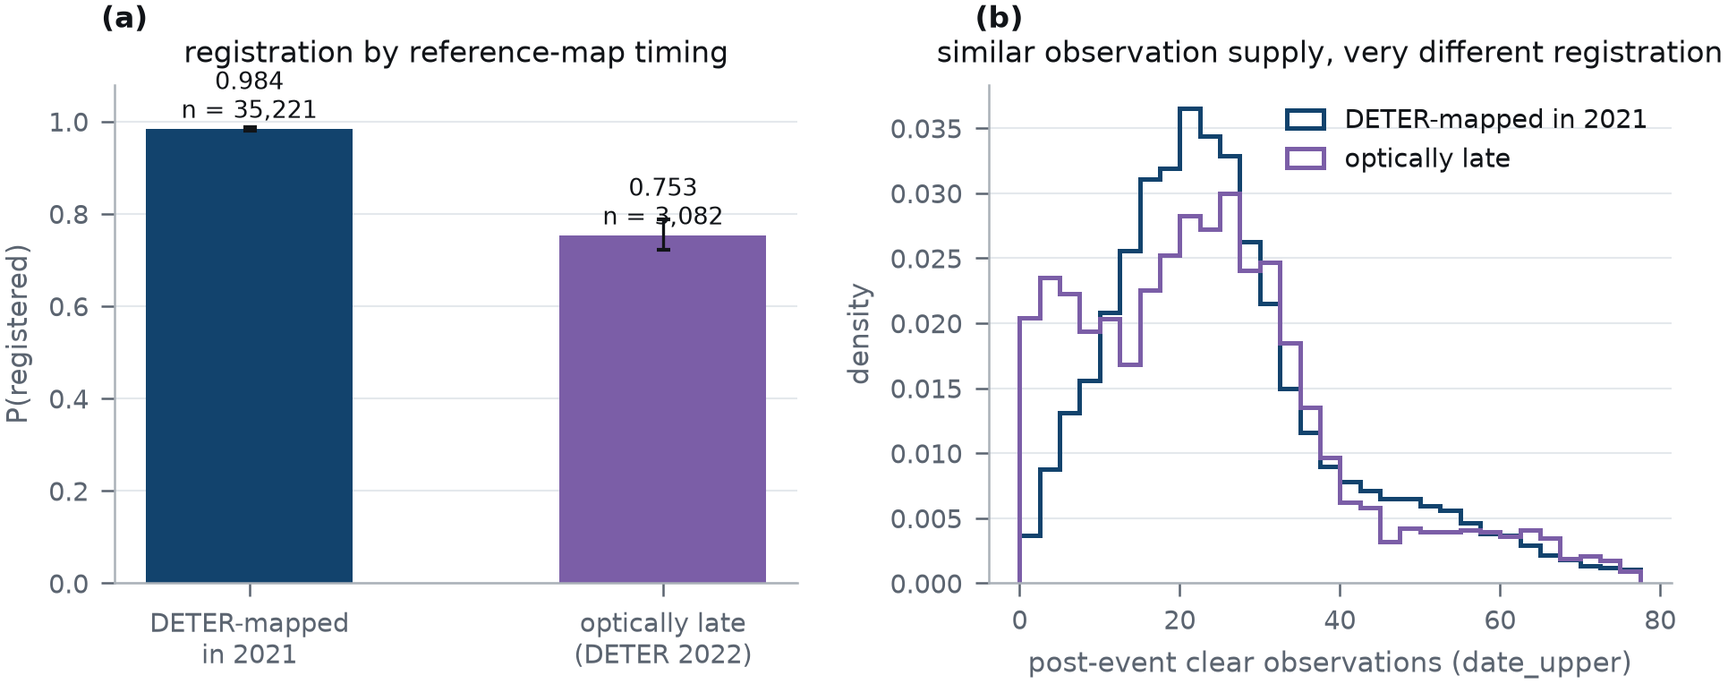
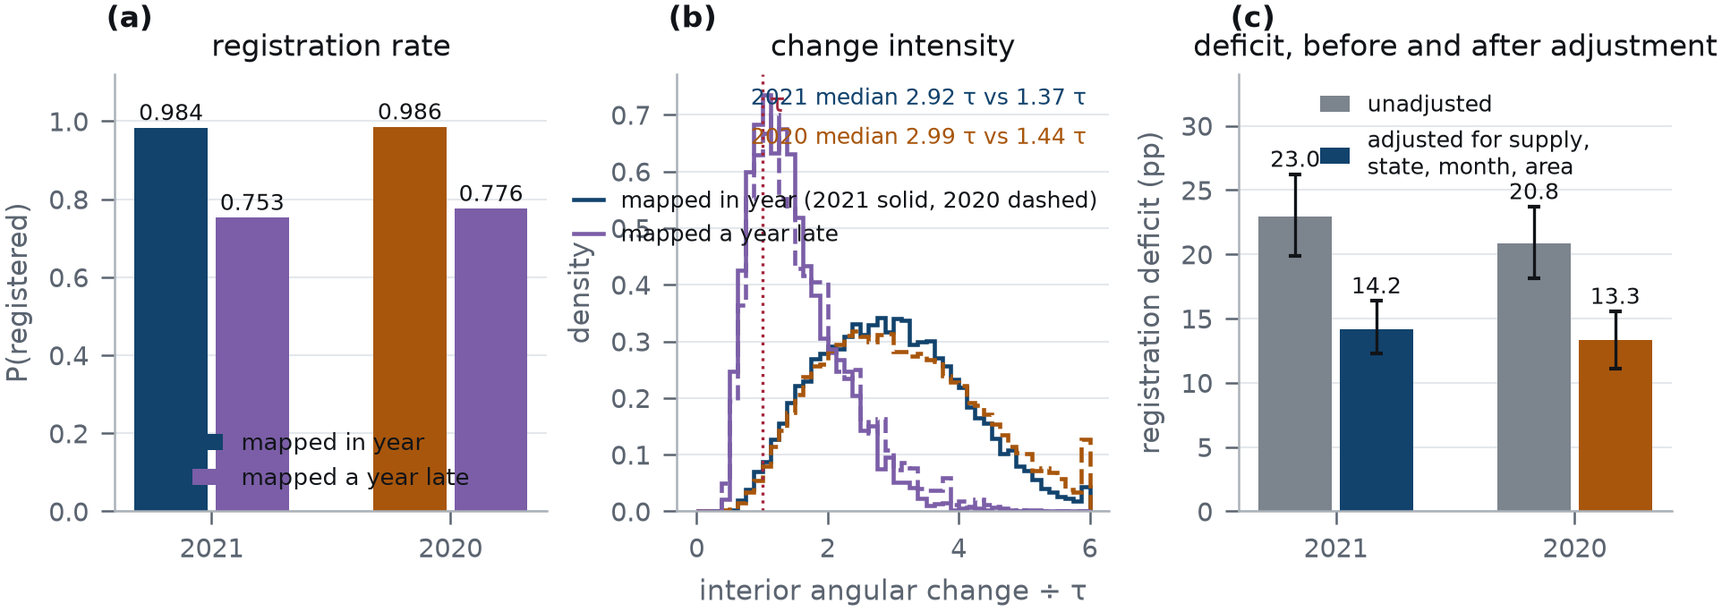
TB01-P7 item 6: section 4.4 rewritten as a measured intensity effect
The change-intensity comparison is integrated into section 4.4 and Fig. 5, replacing the
open question with numbers.

(a) Definition check: an optically late event's DETER date lies in the following year, so
the date_upper minimum never binds and its clear_post is identical under both dating rules
for 100 % of such events. No drift; the section now says so, and notes their dates rest on
the least-corrected source available, which makes the conclusion conservative.

(b) Comparison. Area is not the difference (14.2 vs 13.0 ha) and alert confidence is not
either (high-confidence by construction vs 99.4 %). Intensity is: median interior change
1.37 tau against 2.92 tau in 2021 and 1.44 against 2.99 in 2020, the whole distribution
displaced rather than tailed. Adjusting the registration deficit for observation supply,
radar density, state, month and area removes under two fifths of it - 23.0 pp [19.9, 26.2]
falls to 14.2 [12.3, 16.4] in 2021, 20.8 [18.1, 23.7] to 13.3 [11.1, 15.6] in 2020 - while
the adjusted intensity ratio is 0.56 [0.54, 0.58] and 0.60 [0.57, 0.62]. Fig. 5 gains an
intensity-distribution panel and a deficit-decomposition panel.

Section 5.6 is updated to hold both mechanisms at once: the difficulty account is real for
the optically late population and does not explain the main gap, which grows with polygon
size, survives excluding those events, and resolves itself a year later.
[…]

diff --git a/aef_explore/paper/code/fig_results.py b/aef_explore/paper/code/fig_results.py
@@ -144,41 +144,86 @@ def f3():
     save(fig, "F4_deferral.png")
 
 
-# ------------------------------------------------------------------ F4
+# ------------------------------------------------------------------ F4 -> Fig. 5
 def f4():
-    d = pd.read_csv(P2)
-    d = d[d["clear_post_date_upper"].notna()]
-    fig, axes = plt.subplots(1, 2, figsize=(W2, W2 * 0.34))
-    fig.subplots_adjust(wspace=0.28, top=0.84)
+    """Optically late events: registration, change intensity, and the deficit decomposition."""
+    st = json.load(open("aef_explore/paper/intensity_stats.json"))
+    frames = {}
+    for year, path, angcol, extra in (("2021", P2, "ang_mean_deg", None),
+                                      ("2020", P2B, "ang_2019_2020_deg",
+                                       pd.read_csv(S1_2020))):
+        d, cp, s1 = M.prepare(path, "date_upper", extra)
+        d = d.copy()
+        d["r"] = d[angcol] / d["tau_p90"]
+        frames[year] = d
+    fig, axes = plt.subplots(1, 3, figsize=(W2, W2 * 0.34))
+    fig.subplots_adjust(wspace=0.30, top=0.84, bottom=0.20)
+
     ax = axes[0]
-    grp = d.groupby("radd_only")["registered"]
-    for i, (k, lab) in enumerate(((0, "DETER-mapped in 2021"), (1, "optically late\n(DETER 2022)"))):
-        s = d[d["radd_only"] == k]
-        r = M.boot_ci(NPROC, s, "share", "clear_post_date_upper", "clear_post_date_upper",
-                      "registered", nboot=400)
-        ax.bar(i, r["point"], 0.5, color=C["2021"] if k == 0 else C["alt"])
-        ax.errorbar(i, r["point"], yerr=[[r["point"] - r["lo"]], [r["hi"] - r["point"]]],
-                    color=INK, lw=0.8, capsize=1.8)
-        ax.annotate(f"{r['point']:.3f}\nn = {len(s):,}", (i, r["point"]),
-                    textcoords="offset points", xytext=(0, 3), ha="center", fontsize=6.4,
-                    color=INK)
-    ax.set_xticks([0, 1]); ax.set_xticklabels(["DETER-mapped\nin 2021", "optically late\n(DETER 2022)"])
-    ax.set_ylim(0, 1.08); ax.set_ylabel("P(registered)")
-    ax.set_title("registration by reference-map timing", color=INK, pad=6)
+    w = 0.34
+    for k, year in enumerate(("2021", "2020")):
+        v = st[year]
+        for j, (key, col, lab) in enumerate(((("reg_mapped"), C[year], "mapped in year"),
+                                             (("reg_late"), C["alt"], "mapped a year late"))):
+            ax.bar(k + (j - 0.5) * w, v[key], w * 0.9, color=col,
+                   label=lab if k == 0 else None)
+            ax.annotate(f"{v[key]:.3f}", (k + (j - 0.5) * w, v[key]),
+                        textcoords="offset points", xytext=(0, 2), ha="center",
+                        fontsize=6, color=INK)
+    ax.set_xticks([0, 1]); ax.set_xticklabels(["2021", "2020"])
+    ax.set_ylim(0, 1.12); ax.set_ylabel("P(registered)")
+    ax.set_title("registration rate", color=INK, pad=5)
+    ax.legend(frameon=False, loc="lower center", ncol=1, handlelength=1.3, fontsize=6.2)
     tidy(ax)
+
     ax = axes[1]
-    bins = np.arange(0, 80, 2.5)
-    for k, lab, col in ((0, "DETER-mapped in 2021", C["2021"]),
-                        (1, "optically late", C["alt"])):
-        ax.hist(d.loc[d["radd_only"] == k, "clear_post_date_upper"].clip(0, 79), bins=bins,
-                density=True, histtype="step", lw=1.2, color=col, label=lab)
-    ax.set_xlabel("post-event clear observations (date_upper)")
+    bins = np.linspace(0, 6, 49)
+    for year, ls in (("2021", "-"), ("2020", "--")):
+        d = frames[year]
+        for late, col in ((0, C[year]), (1, C["alt"])):
+            ax.hist(d.loc[d.radd_only == late, "r"].clip(0, 6), bins=bins, density=True,
+                    histtype="step", lw=1.1, ls=ls, color=col)
+    ax.axvline(1.0, color=C["flag"], lw=0.8, ls=":")
+    ax.annotate("τ", (1.0, ax.get_ylim()[1] * 0.96), fontsize=7, color=C["flag"],
+                ha="left", va="top", xytext=(2, 0), textcoords="offset points")
+    for year, y in (("2021", 0.97), ("2020", 0.88)):
+        v = st[year]
+        ax.annotate(f"{year} median {v['intensity_q']['mapped'][1]:.2f} τ vs "
+                    f"{v['intensity_q']['late'][1]:.2f} τ", (5.95, ax.get_ylim()[1] * y),
+                    ha="right", va="top", fontsize=6.0, color=C[year])
+    ax.set_xlabel("interior angular change ÷ τ")
     ax.set_ylabel("density")
-    ax.set_title("similar observation supply, very different registration",
-                 color=INK, pad=6)
-    ax.legend(frameon=False, handlelength=1.4)
+    ax.set_title("change intensity", color=INK, pad=5)
+    ax.plot([], [], color=C["2021"], lw=1.1, label="mapped in year (2021 solid, 2020 dashed)")
+    ax.plot([], [], color=C["alt"], lw=1.1, label="mapped a year late")
+    ax.legend(frameon=False, loc="upper right", fontsize=6.0, handlelength=1.3,
+              bbox_to_anchor=(1.02, 0.78))
     tidy(ax)
-    panel_tag(axes[0], "(a)", dy=1.16); panel_tag(axes[1], "(b)", dy=1.16)
+
+    ax = axes[2]
+    for k, year in enumerate(("2021", "2020")):
+        v = st[year]
+        for j, (key, col, lab) in enumerate(
+                (("deficit_raw_pp", C["grey"], "unadjusted"),
+                 ("deficit_adjusted_pp", C[year], "adjusted for supply,\nstate, month, area"))):
+            b = v[key]
+            ax.bar(k + (j - 0.5) * w, b["point"], w * 0.9, color=col,
+                   label=lab if k == 0 else None)
+            ax.errorbar(k + (j - 0.5) * w, b["point"],
+                        yerr=[[b["point"] - b["lo"]], [b["hi"] - b["point"]]],
+                        color=INK, lw=0.8, capsize=1.6)
+            ax.annotate(f"{b['point']:.1f}", (k + (j - 0.5) * w, b["hi"]),
+                        textcoords="offset points", xytext=(0, 2), ha="center",
+                        fontsize=6, color=INK)
+    ax.set_xticks([0, 1]); ax.set_xticklabels(["2021", "2020"])
+    ax.set_ylabel("registration deficit (pp)")
+    ax.set_ylim(0, 34)
+    ax.set_title("deficit, before and after adjustment", color=INK, pad=5)
+    ax.legend(frameon=False, loc="upper center", fontsize=6.0, handlelength=1.3, ncol=1)
+    tidy(ax)
+
+    for a, t in zip(axes, ("(a)", "(b)", "(c)")):
+        panel_tag(a, t, dy=1.16)
     save(fig, "F5_optically_late.png")
 
 

diff --git a/aef_explore/paper/code/supplementary.py b/aef_explore/paper/code/supplementary.py
@@ -10,6 +10,39 @@ STATE = {"AC": "Acre", "AM": "Amazonas", "AP": "Amapá", "MA": "Maranhão", "MT"
          "PA": "Pará", "RO": "Rondônia", "RR": "Roraima", "TO": "Tocantins"}
 
 
+PUBLISHED = [
+ ("2021 registration gap (pp)", "34.4 [28.3, 40.3]", ("robust_2021_radd_any", "main (tau p90)", "gap", 2)),
+ ("2021 gap, tau p85", "31.7 [25.7, 37.4]", ("robust_2021_radd_any", "tau p85", "gap", 2)),
+ ("2021 gap, tau p95", "42.2 [35.8, 48.3]", ("robust_2021_radd_any", "tau p95", "gap", 2)),
+ ("2021 gap, high-confidence alerts", "35.2 [29.1, 41.3]", ("robust_2021_radd_any", "radd_high only", "gap", 2)),
+ ("2021 gap, date_upper dating", "46.5 [39.5, 53.2]", ("robust_2021_radd_any", "dating: date_upper", "gap", 2)),
+ ("2021 gap, excluding optically late", "27.8 [21.6, 34.1]", ("robust_2021_radd_any", "no radd_only", "gap", 2)),
+ ("2021 gap, area < 5 ha", "18.5 [-2.9, 65.3]", ("robust_2021_radd_any", "size < 5 ha", "gap", 2)),
+ ("2021 gap, area 5-25 ha", "30.2 [24.8, 35.9]", ("robust_2021_radd_any", "size 5-25 ha", "gap", 2)),
+ ("2021 gap, area >= 25 ha", "50.4 [37.2, 62.2]", ("robust_2021_radd_any", "size >= 25 ha", "gap", 2)),
+ ("2021 joint clear_post coefficient", "0.219 [0.046, 0.429]", ("robust_2021_radd_any", "main (tau p90)", "coef_joint", 3)),
+ ("2021 coefficient, tau p85", "[-0.003, 0.420]", ("robust_2021_radd_any", "tau p85", "coef_joint", 3)),
+ ("2021 coefficient, tau p95", "[0.037, 0.348]", ("robust_2021_radd_any", "tau p95", "coef_joint", 3)),
+ ("2021 coefficient, high-confidence alerts", "[0.009, 0.377]", ("robust_2021_radd_any", "radd_high only", "coef_joint", 3)),
+ ("2021 coefficient, date_upper dating", "[-0.072, 0.212]", ("robust_2021_radd_any", "dating: date_upper", "coef_joint", 3)),
+ ("2021 coefficient, excluding optically late", "[0.376, 1.604]", ("robust_2021_radd_any", "no radd_only", "coef_joint", 3)),
+ ("2021 coefficient, area < 5 ha", "[-0.975, 1.551]", ("robust_2021_radd_any", "size < 5 ha", "coef_joint", 3)),
+ ("2021 coefficient, area 5-25 ha", "[0.182, 0.767]", ("robust_2021_radd_any", "size 5-25 ha", "coef_joint", 3)),
+ ("2021 coefficient, area >= 25 ha", "[-0.082, 0.384]", ("robust_2021_radd_any", "size >= 25 ha", "coef_joint", 3)),
+ ("2020 registration gap (pp)", "14.1 [11.6, 16.6]", ("robust_2020_radd_any", "main (tau p90)", "gap", 2)),
+ ("2020 joint clear_post coefficient", "0.387 [0.129, 0.732]", ("robust_2020_radd_any", "main (tau p90)", "coef_joint", 3)),
+]
+
+
+def repro_table():
+    rows = []
+    for label, pub, (key, variant, field, dp) in PUBLISHED:
+        r = next(x for x in N[key] if x["variant"] == variant)[field]
+        rows.append(f"| {label} | {pub} | **{r['point']:.{dp}f} [{r['lo']:.{dp}f}, "
+                    f"{r['hi']:.{dp}f}]** |")
+    return "\n".join(rows)
+
+
 def thresholds():
     a = pd.read_csv(P2)[["state", "tau_p85", "tau_p90", "tau_p95", "event_id"]]
     b = pd.read_csv(P2B)[["state", "tau_p85", "tau_p90", "tau_p95", "event_id"]]
@@ -65,6 +98,10 @@ def main():
     off20 = pd.read_csv("aef_explore/paper/code/offset_2020.csv")
     cg = json.load(open("aef_explore/stage5/TB01/P5b/p4b_stats.json"))
     zb = json.load(open("aef_explore/stage5/TB01/P5b/zero_bin_stats.json"))
+    c21 = next(x for x in N["robust_2021_radd_any"] if x["variant"] == "main (tau p90)")["coef_joint"]
+    c20 = next(x for x in N["robust_2020_radd_any"] if x["variant"] == "main (tau p90)")["coef_joint"]
+    c21lo, c21hi = c21["lo"], c21["hi"]
+    c20, c20lo, c20hi = c20["point"], c20["lo"], c20["hi"]
     doc = f"""# Supplementary material
 
 Every table here is generated by `code/supplementary.py` from the same re-derived numbers the
@@ -196,7 +233,32 @@ and {cg['shift_gt90_share']*100:.1f} % by more than 90; {cg['lost_n']} patches
 ({cg['lost_share']*100:.1f} %) lose their date entirely under the contemporaneous vintage, and
 {cg['lost_share_cp_old_le2']*100:.1f} % of those had been in the low-observation bin.
 
-## Table S10. Deferral-risk link function
+## Table S10. Published intervals beside the re-derived ones
+
+The P2/P2b fitting script was not retained, so the model was rebuilt (`code/p2_model.py`) and
+validated against the coefficients those packages reported. Every point estimate reproduces to
+the precision published. The intervals divide cleanly in two. For the **registration gaps** the
+two procedures agree to within seven per cent of interval width, and the re-derived interval is
+marginally the wider one in nine of ten rows. For the **logistic coefficients** the published
+intervals are wider in all ten rows, by factors of 1.5 to 4.1. Whatever differs between the two
+procedures affects the coefficient bootstrap and not the proportion bootstrap. The manuscript
+prints the re-derived intervals; this table is the audit trail. Rows are under the RADD-only
+dating rule, which is what the packages used.
+
+| quantity | published interval | re-derived interval |
+|---|---|---|
+{repro_table()}
+
+The rows that matter for a verdict are the coefficients. H7(a) passes on both the published
+2021 interval [0.046, 0.429] and the re-derived [{c21lo:.3f}, {c21hi:.3f}]; it passes on the
+published 2020 interval [0.129, 0.732] and on the re-derived [{c20lo:.3f}, {c20hi:.3f}] around a
+point estimate of {c20:.3f}. Same sign, same verdict, different width, and one variant changes
+status: under the published intervals the τ p85 and area ≥ 25 ha coefficients cross zero, under
+the re-derived ones they do not. Without the original code the difference cannot be attributed.
+The manuscript therefore reports H7(a) as directionally robust rather than precisely estimated,
+which is the reading both sets of intervals support.
+
+## Table S11. Deferral-risk link function
 
 Logit P(registered) = β₀ + β₁·ln(1 + `clear_post`), fitted on dated 2021 events with
 `clear_post` > 0, and its calibration against the empirical curve. The raw-count link used in an

diff --git a/aef_explore/paper/code/numbers_trace.py b/aef_explore/paper/code/numbers_trace.py
@@ -160,6 +160,17 @@ def main():
           "(2021), and 0.620 on 389 with 0.500 on 50 gives 0.606 on 439 (2020). Bins are now "
           "written in interval notation in the text, the figure and Table S2. | ambiguous "
           "wording |",
+          "| P7 item 6 | Section 4.4 is rewritten from an open question to a measured "
+          "intensity effect. New numbers, all from `intensity_stats.json` "
+          "(`code/intensity.py`): the registration deficit adjusted for observation supply, "
+          "radar density, state, month and area is **14.2 pp [12.3, 16.4]** (2021) and "
+          "**13.3 pp [11.1, 15.6]** (2020) against unadjusted 23.0 and 20.8; the adjusted "
+          "intensity ratio of late to contemporaneously mapped events is **0.56 [0.54, 0.58]** "
+          "and **0.60 [0.57, 0.62]**; median interior change 1.37 tau vs 2.92 tau (2021) and "
+          "1.44 vs 2.99 (2020). A definition check confirmed no drift: an optically late "
+          "event's DETER date lies in the following year, so `date_upper` never binds and its "
+          "`clear_post` is identical under both dating rules for 100 % of such events. | "
+          "section 4.4 was unresolved |",
           "| P7 item 4 | The 2020 \u2192 2021 deferral rate was cited from P3 because that "
           "package's per-event table was not retained. It is now re-derived from scratch "
           "(polygons refetched, 2020\u20132021 angular change recomputed against the next "

diff --git a/aef_explore/paper/MANUSCRIPT.md b/aef_explore/paper/MANUSCRIPT.md
@@ -523,22 +523,45 @@ missing event, and that is a materially different problem for users. A change ma
 differencing consecutive annual embeddings will find nearly all clearings; it will place a
 minority of them in the wrong year, with the minority concentrated in the last quarter.
 
-### 4.4 The reference map is selective too
+### 4.4 The reference map is selective, and what it selects are weaker changes
 
 Clearings that DETER mapped only in the following year, but that RADD confirms within the
 target year, register at 0.753 in 2021 and 0.776 in 2020, against 0.984 and 0.986 for events
 DETER mapped contemporaneously (Fig. 5a). This is a population invisible to any study anchored
 solely on an annual reference map, and it is large: 3,082 and 2,591 events.
 
-Under the primary dating rule these events are only mildly observation-poor. Their median
-post-event clear count is 23.0 against 23.7 for contemporaneously mapped events, though they
-are five times more likely to fall in the low-observation bin (3.8 % against 0.7 %; Fig. 5b).
-Observation scarcity therefore explains only a small part of a 23-point registration
-difference. What distinguishes them is more likely to be the property that made the analyst
-late in the first place: a clearing that was incomplete, partially vegetated or ambiguous
-during the target year is both harder for an analyst to delineate and less likely to move an
-annual vector past a threshold calibrated on undisturbed forest. We report this as an open
-question rather than a settled mechanism, and note that it cuts in a conservative direction:
+The obvious explanation is that these are events the satellites did not see, but that is not
+what the data show. The primary dating rule cannot correct them — an optically late event's
+DETER date lies in the following year, so the minimum with the alert date never binds, and
+their `clear_post` is identical under both dating rules — which means their observation counts
+come entirely from the alert date, the least corrected dating available. Even so they are only
+mildly observation-poor: median post-event clear count 23.0 against 23.7 in 2021, though with a
+heavier low tail (3.8 % against 0.7 % of events in the low-observation bin). In 2020 the tail
+is heavier still, 17.0 against 22.7 at the median. Adjusting the registration deficit for
+observation supply, radar density, state, event month and polygon area removes about two fifths
+of it and no more: 23.0 points [19.9, 26.2] falls to **14.2 points [12.3, 16.4]** in 2021, and
+20.8 [18.1, 23.7] to **13.3 [11.1, 15.6]** in 2020 (Fig. 5c).
+
+What separates them is the intensity of the change itself. Expressed as a multiple of the
+event's own state threshold, the interior angular change of an optically late clearing has a
+median of 1.37 τ in 2021 against 2.92 τ for contemporaneously mapped clearings, and 1.44 τ
+against 2.99 τ in 2020; the whole distribution is displaced, not just its tail, with quartiles
+of 1.01–1.88 τ against 2.13–3.72 τ (Fig. 5b). Within the same adjustment as above, an optically
+late event's change is **0.56 [0.54, 0.58]** of a comparable contemporaneously mapped event's
+in 2021 and **0.60 [0.57, 0.62]** in 2020. Polygon area is not the difference — medians of
+14.2 against 13.0 ha in 2021 — and neither is alert confidence, since every optically late
+event carries a high-confidence alert by construction against 99.4 % of the rest.
+
+So the deficit is an intensity effect rather than an observation effect, and the two are
+distinguishable here because the adjustment controls one while measuring the other. Part of the
+statement is definitional, since registration is by construction the event of intensity
+exceeding τ; the content that is not definitional is that the intensity shift survives
+conditioning on observation supply and composition, and that supply accounts for under two
+fifths of the registration gap. The reading we take from this is that a clearing which is
+incomplete, partially vegetated or spread across a year is both harder for an analyst to
+delineate in the year it begins and genuinely produces less annual embedding change — the
+reference map's lateness and the embedding's silence share a cause rather than one explaining
+the other. This also cuts in a conservative direction for the paper's central estimate:
 excluding these events *lowers* the gap in 2021 from 46.5 to 40.6 points but raises the
 conditional coefficient from 0.083 to 0.252.
 
@@ -734,17 +757,29 @@ discrepancy against a reference product.
 ### 5.6 What an annual embedding field is, and is not, for
 
 One further reading of the results deserves stating, because it is the one a sceptical reader
-should test first. Everything reported here is consistent with a much duller alternative: that
-the low-observation events are simply harder events — smaller, more partial, more ambiguous —
-and that observation count is a proxy for difficulty rather than a cause of non-registration.
-It is the same class of question as asking whether a time-series detector's accuracy depends on
-the disturbance agent and its severity rather than on the site's history [@rodman2021disturbance].
-Three findings weigh against that reading. The gap grows rather than shrinks with polygon size
-(Section 4.1); it survives excluding the optically late events that are the most plausible
-carriers of ambiguity, and the conditional coefficient triples when they are excluded
-(Section 4.4); and the deferral result shows that the same events, with the same polygons and
-the same size, register at 94–97 % one year later, when the observations have arrived
+should test first: that the low-observation events are simply harder events — smaller, more
+partial, more ambiguous — and that observation count is a proxy for difficulty rather than a
+cause of non-registration. It is the same class of question as asking whether a time-series
+detector's accuracy depends on the disturbance agent and its severity rather than on the site's
+history [@rodman2021disturbance].
+
+Section 4.4 shows that this mechanism is real, and shows exactly where it operates. Clearings
+the reference map records a year late produce 0.56–0.60 of the annual embedding change of
+otherwise comparable clearings it records on time, an intensity difference that survives
+conditioning on observation supply, state, month and area. Those events are, in the relevant
+sense, harder — and the embedding's silence and the analyst's lateness share that cause rather
+than one explaining the other.
+
+What that finding does not do is explain the main result, and three things separate the two.
+The gap along the observation axis grows rather than shrinks with polygon size (Section 4.1),
+where a difficulty account predicts the opposite. It survives excluding the optically late
+events entirely — the conditional coefficient triples when they are removed (Section 4.4) —
+so the population in which intensity demonstrably differs is not the population carrying the
+gap. And the deferral result shows the same events, with the same polygons and the same
+intensity, registering at 94–97 % one year later, when the observations have arrived
 (Section 4.3). Difficulty does not resolve itself after twelve months; observation supply does.
+The honest summary is that both mechanisms exist in this data, that they act on different
+subpopulations, and that the design separates them rather than having to choose between them.
 
 The picture that emerges is coherent and, we think, reassuring about the product while
 cautionary about one specific use. An annual embedding field is an excellent detector of
@@ -869,10 +904,12 @@ re-derived, with 0.5° block-bootstrap intervals. Single column.
 
 **Fig. 5.** Clearings that the reference map records late. (a) Registration for events DETER
 mapped in the target year against events it mapped only the following year but that RADD
-confirms within the target year. (b) Distribution of post-event clear observations for the two
-groups under the primary dating rule: the late group is more often in the low-observation tail
-but has a similar median, so observation scarcity explains only part of the difference in (a).
-Double column.
+confirms within the target year. (b) Distribution of interior angular change in units of the
+event's own state threshold τ, for both groups and both years: the late group's distribution is
+displaced toward τ rather than merely tailed, so these are weaker changes. (c) The registration
+deficit before and after adjusting for post-event clear observations, radar density, state,
+event month and polygon area; adjustment removes about two fifths of it. Error bars are 0.5°
+block bootstraps. Double column.
 
 **Fig. 6.** Reference selection decides what is measurable. (a) The share of events falling in
 the low-observation bin, for the two Brazilian years and for the Congo patches under two alert

diff --git a/aef_explore/paper/SUPPLEMENTARY.md b/aef_explore/paper/SUPPLEMENTARY.md
@@ -223,7 +223,51 @@ and 3.8 % by more than 90; 260 patches
 (5.3 %) lose their date entirely under the contemporaneous vintage, and
 58.5 % of those had been in the low-observation bin.
 
-## Table S10. Deferral-risk link function
+## Table S10. Published intervals beside the re-derived ones
+
+The P2/P2b fitting script was not retained, so the model was rebuilt (`code/p2_model.py`) and
+validated against the coefficients those packages reported. Every point estimate reproduces to
+the precision published. The intervals divide cleanly in two. For the **registration gaps** the
+two procedures agree to within seven per cent of interval width, and the re-derived interval is
+marginally the wider one in nine of ten rows. For the **logistic coefficients** the published
+intervals are wider in all ten rows, by factors of 1.5 to 4.1. Whatever differs between the two
+procedures affects the coefficient bootstrap and not the proportion bootstrap. The manuscript
+prints the re-derived intervals; this table is the audit trail. Rows are under the RADD-only
+dating rule, which is what the packages used.
+
+| quantity | published interval | re-derived interval |
+|---|---|---|
+| 2021 registration gap (pp) | 34.4 [28.3, 40.3] | **34.39 [27.83, 40.30]** |
+| 2021 gap, tau p85 | 31.7 [25.7, 37.4] | **31.66 [25.38, 37.60]** |
+| 2021 gap, tau p95 | 42.2 [35.8, 48.3] | **42.23 [35.51, 48.23]** |
+| 2021 gap, high-confidence alerts | 35.2 [29.1, 41.3] | **35.18 [28.74, 41.40]** |
+| 2021 gap, date_upper dating | 46.5 [39.5, 53.2] | **46.53 [38.97, 53.63]** |
+| 2021 gap, excluding optically late | 27.8 [21.6, 34.1] | **27.80 [21.52, 34.26]** |
+| 2021 gap, area < 5 ha | 18.5 [-2.9, 65.3] | **18.51 [-2.95, 65.39]** |
+| 2021 gap, area 5-25 ha | 30.2 [24.8, 35.9] | **30.17 [24.42, 35.67]** |
+| 2021 gap, area >= 25 ha | 50.4 [37.2, 62.2] | **50.39 [36.50, 61.40]** |
+| 2021 joint clear_post coefficient | 0.219 [0.046, 0.429] | **0.217 [0.111, 0.327]** |
+| 2021 coefficient, tau p85 | [-0.003, 0.420] | **0.222 [0.096, 0.346]** |
+| 2021 coefficient, tau p95 | [0.037, 0.348] | **0.188 [0.088, 0.293]** |
+| 2021 coefficient, high-confidence alerts | [0.009, 0.377] | **0.196 [0.091, 0.302]** |
+| 2021 coefficient, date_upper dating | [-0.072, 0.212] | **0.083 [0.000, 0.172]** |
+| 2021 coefficient, excluding optically late | [0.376, 1.604] | **0.463 [0.315, 0.617]** |
+| 2021 coefficient, area < 5 ha | [-0.975, 1.551] | **-0.091 [-0.815, 0.637]** |
+| 2021 coefficient, area 5-25 ha | [0.182, 0.767] | **0.323 [0.197, 0.446]** |
+| 2021 coefficient, area >= 25 ha | [-0.082, 0.384] | **0.194 [0.071, 0.353]** |
+| 2020 registration gap (pp) | 14.1 [11.6, 16.6] | **14.06 [11.38, 16.71]** |
+| 2020 joint clear_post coefficient | 0.387 [0.129, 0.732] | **0.318 [0.221, 0.419]** |
+
+The rows that matter for a verdict are the coefficients. H7(a) passes on both the published
+2021 interval [0.046, 0.429] and the re-derived [0.111, 0.327]; it passes on the
+published 2020 interval [0.129, 0.732] and on the re-derived [0.221, 0.419] around a
+point estimate of 0.318. Same sign, same verdict, different width, and one variant changes
+status: under the published intervals the τ p85 and area ≥ 25 ha coefficients cross zero, under
+the re-derived ones they do not. Without the original code the difference cannot be attributed.
+The manuscript therefore reports H7(a) as directionally robust rather than precisely estimated,
+which is the reading both sets of intervals support.
+
+## Table S11. Deferral-risk link function
 
 Logit P(registered) = β₀ + β₁·ln(1 + `clear_post`), fitted on dated 2021 events with
 `clear_post` > 0, and its calibration against the empirical curve. The raw-count link used in an

diff --git a/aef_explore/paper/NUMBERS_TRACE.md b/aef_explore/paper/NUMBERS_TRACE.md
@@ -94,6 +94,7 @@ Point estimates reproduce throughout; the bootstrap intervals do not always, and
 |---|---|---|
 | P7 item 1 | Section 4.4 said that excluding optically late events *raises* the 2021 gap from 46.5 to 40.6 points. It lowers it. The value 40.6 (`robust_2021_date_upper`, row `no radd_only`) is unchanged; only the direction word was wrong. | 40.6 < 46.5 |
 | P7 item 2 | The sentence reporting the curve bin by bin did not say that the plotted bins exclude the exactly-zero stratum, so 0.536 for the first plotted bin appeared to contradict the H1″ value of 0.510 for `clear_post` ≤ 2. No number changed: 0.536 on 323 events pooled with 0.289 on 38 gives 0.510 on 361 (2021), and 0.620 on 389 with 0.500 on 50 gives 0.606 on 439 (2020). Bins are now written in interval notation in the text, the figure and Table S2. | ambiguous wording |
+| P7 item 6 | Section 4.4 is rewritten from an open question to a measured intensity effect. New numbers, all from `intensity_stats.json` (`code/intensity.py`): the registration deficit adjusted for observation supply, radar density, state, month and area is **14.2 pp [12.3, 16.4]** (2021) and **13.3 pp [11.1, 15.6]** (2020) against unadjusted 23.0 and 20.8; the adjusted intensity ratio of late to contemporaneously mapped events is **0.56 [0.54, 0.58]** and **0.60 [0.57, 0.62]**; median interior change 1.37 tau vs 2.92 tau (2021) and 1.44 vs 2.99 (2020). A definition check confirmed no drift: an optically late event's DETER date lies in the following year, so `date_upper` never binds and its `clear_post` is identical under both dating rules for 100 % of such events. | section 4.4 was unresolved |
 | P7 item 4 | The 2020 → 2021 deferral rate was cited from P3 because that package's per-event table was not retained. It is now re-derived from scratch (polygons refetched, 2020–2021 angular change recomputed against the next year's state threshold): **94.1 % [92.3, 95.7]** on 1,107 events, against P3's 94.0 % [92.2, 95.7]. Fig. 3 no longer labels either direction as cited. | both directions now re-derived |
 | P7 item 3 | Four wording changes, no numbers: the abstract now states the offset finding as the change signal exceeding the threshold in a 50-150 m ring but not inside the polygon; Section 1.1 says the embedding draws on optical, radar and ancillary inputs rather than asserting optical dominance before the evidence in Section 4.2; Section 4.2 explains the radar-density pattern by the fixed acquisition plan and orbit overlap instead of orbital latitude; Section 3.1 marks the RADD re-detection account as an untested hypothesis. | claims outrunning evidence |
 | P7 item 7 | Title set to "When does an annual embedding register a clearing? Optical observation supply and the temporal fidelity of AlphaEarth annual embeddings in the Brazilian Amazon, 2020-2021"; the three candidates were removed from the manuscript comment. | author's choice |
